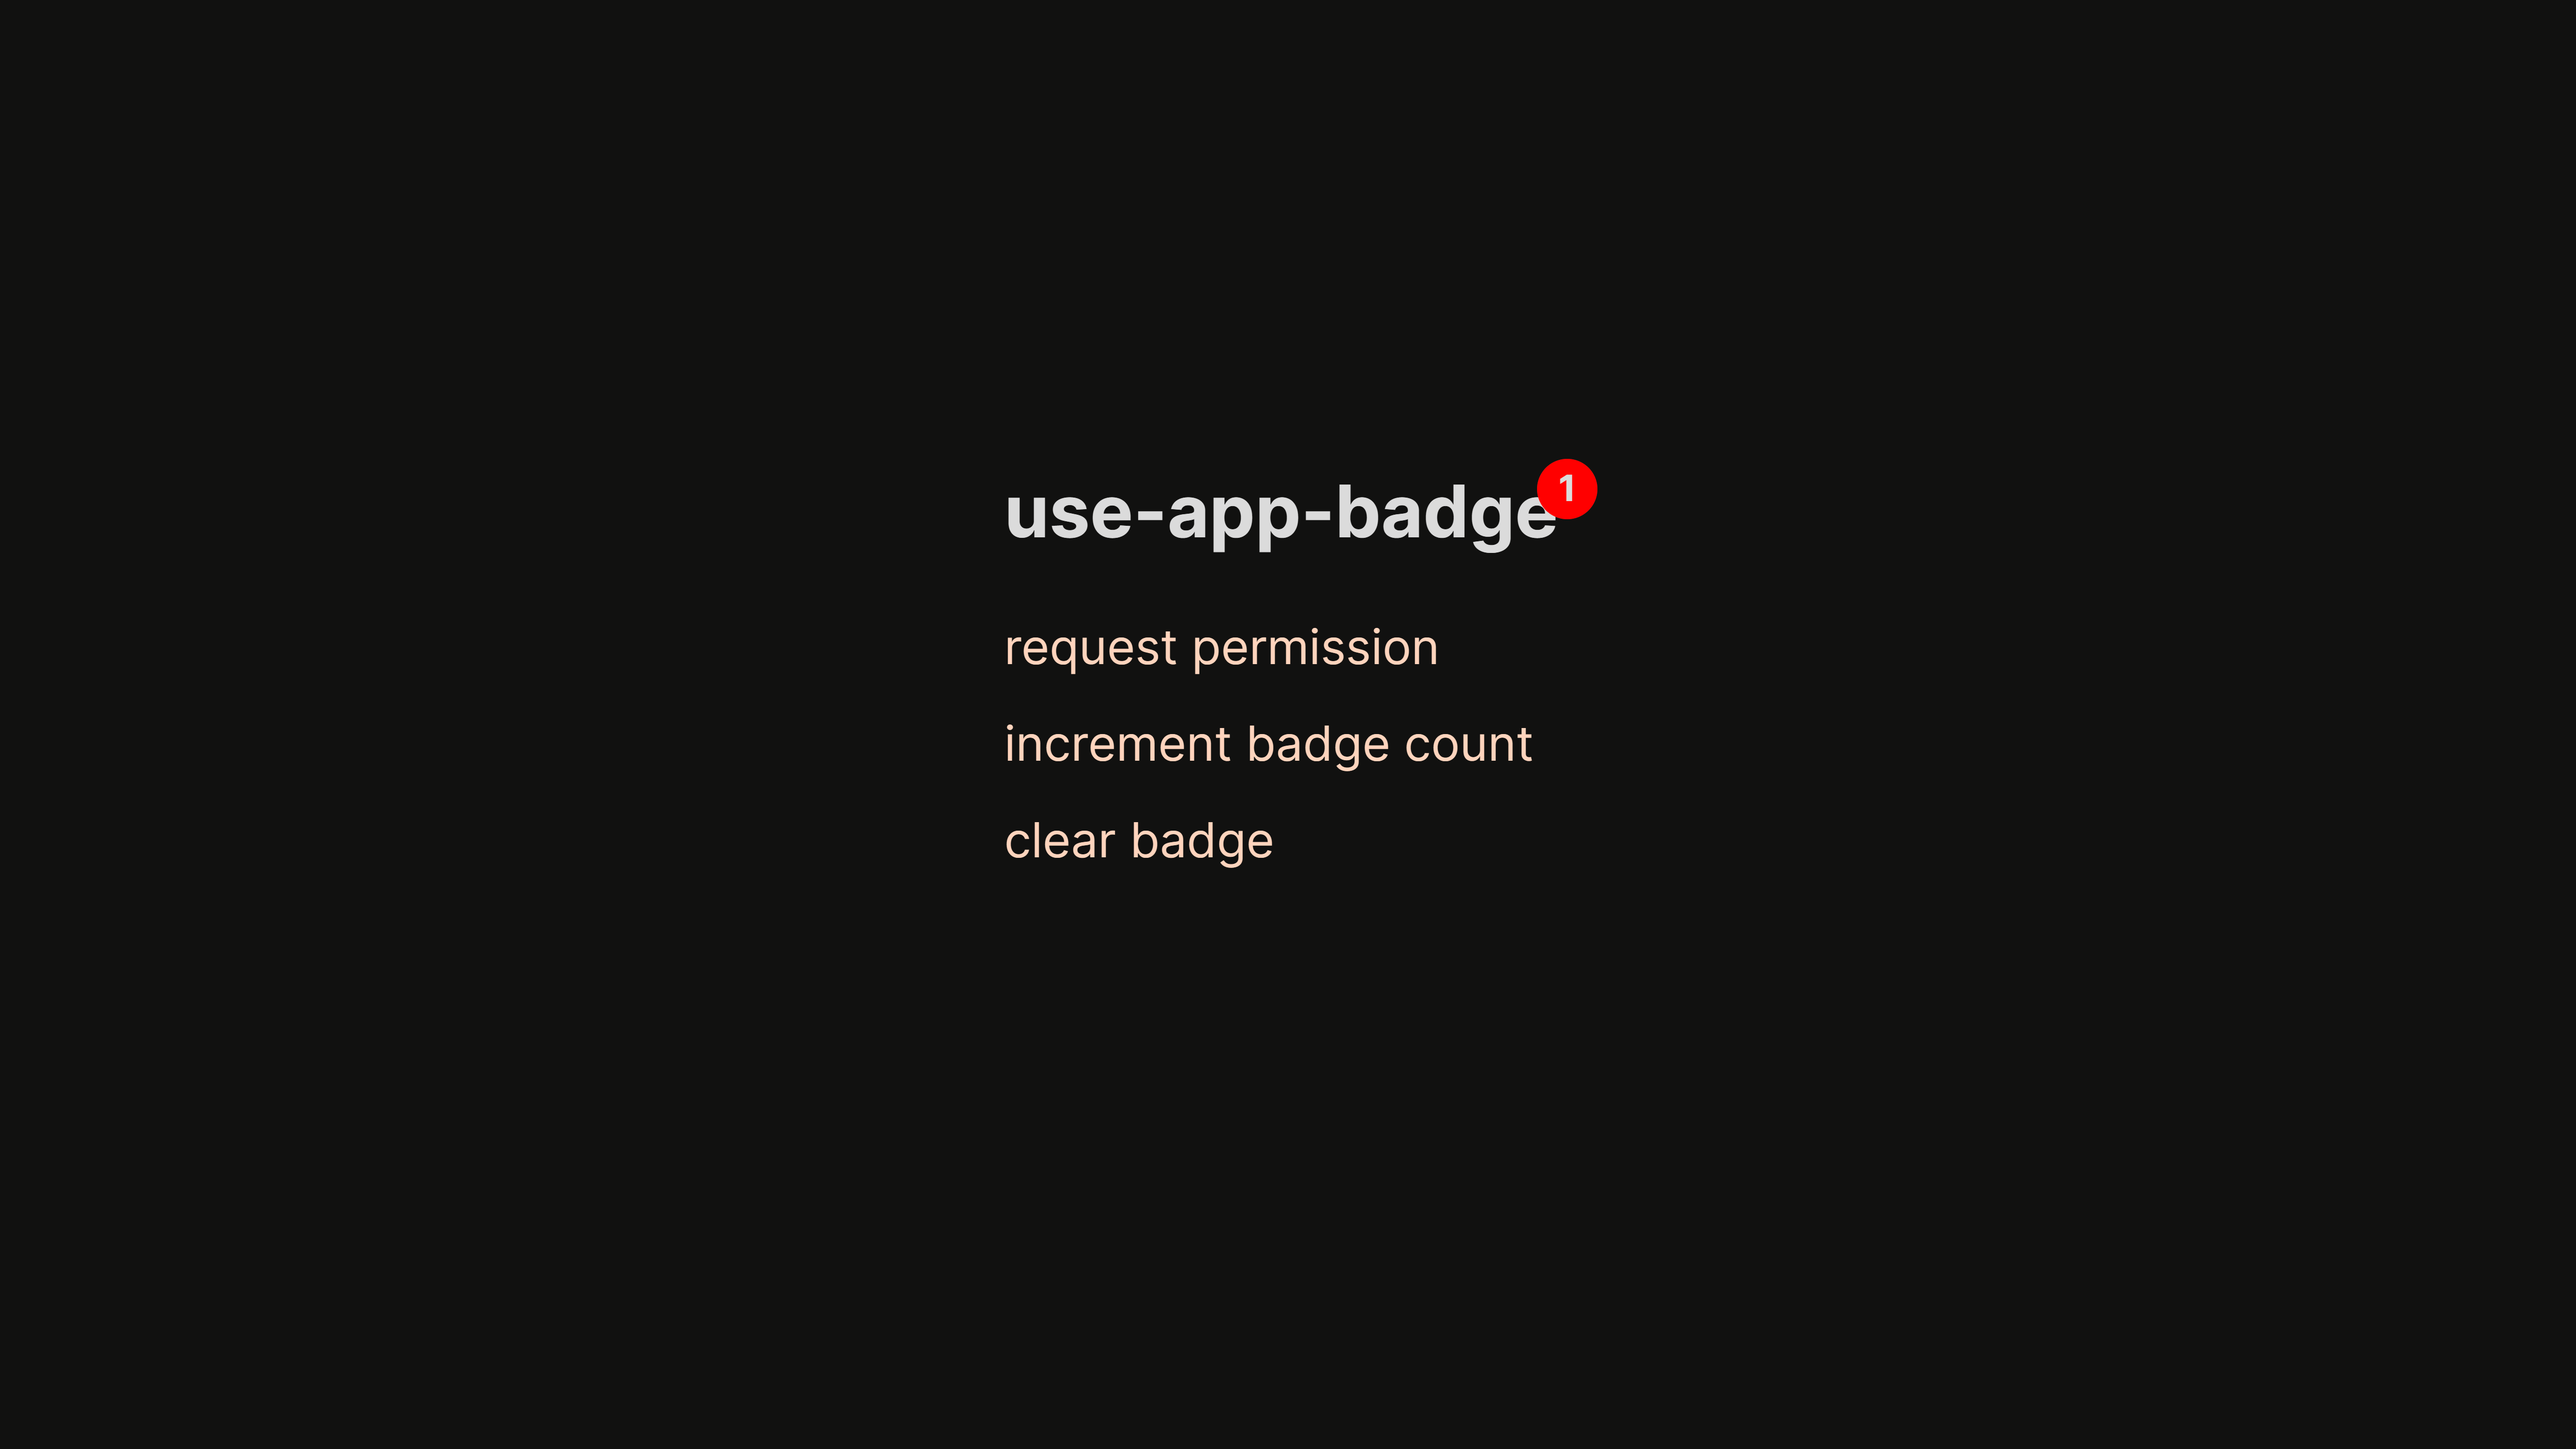
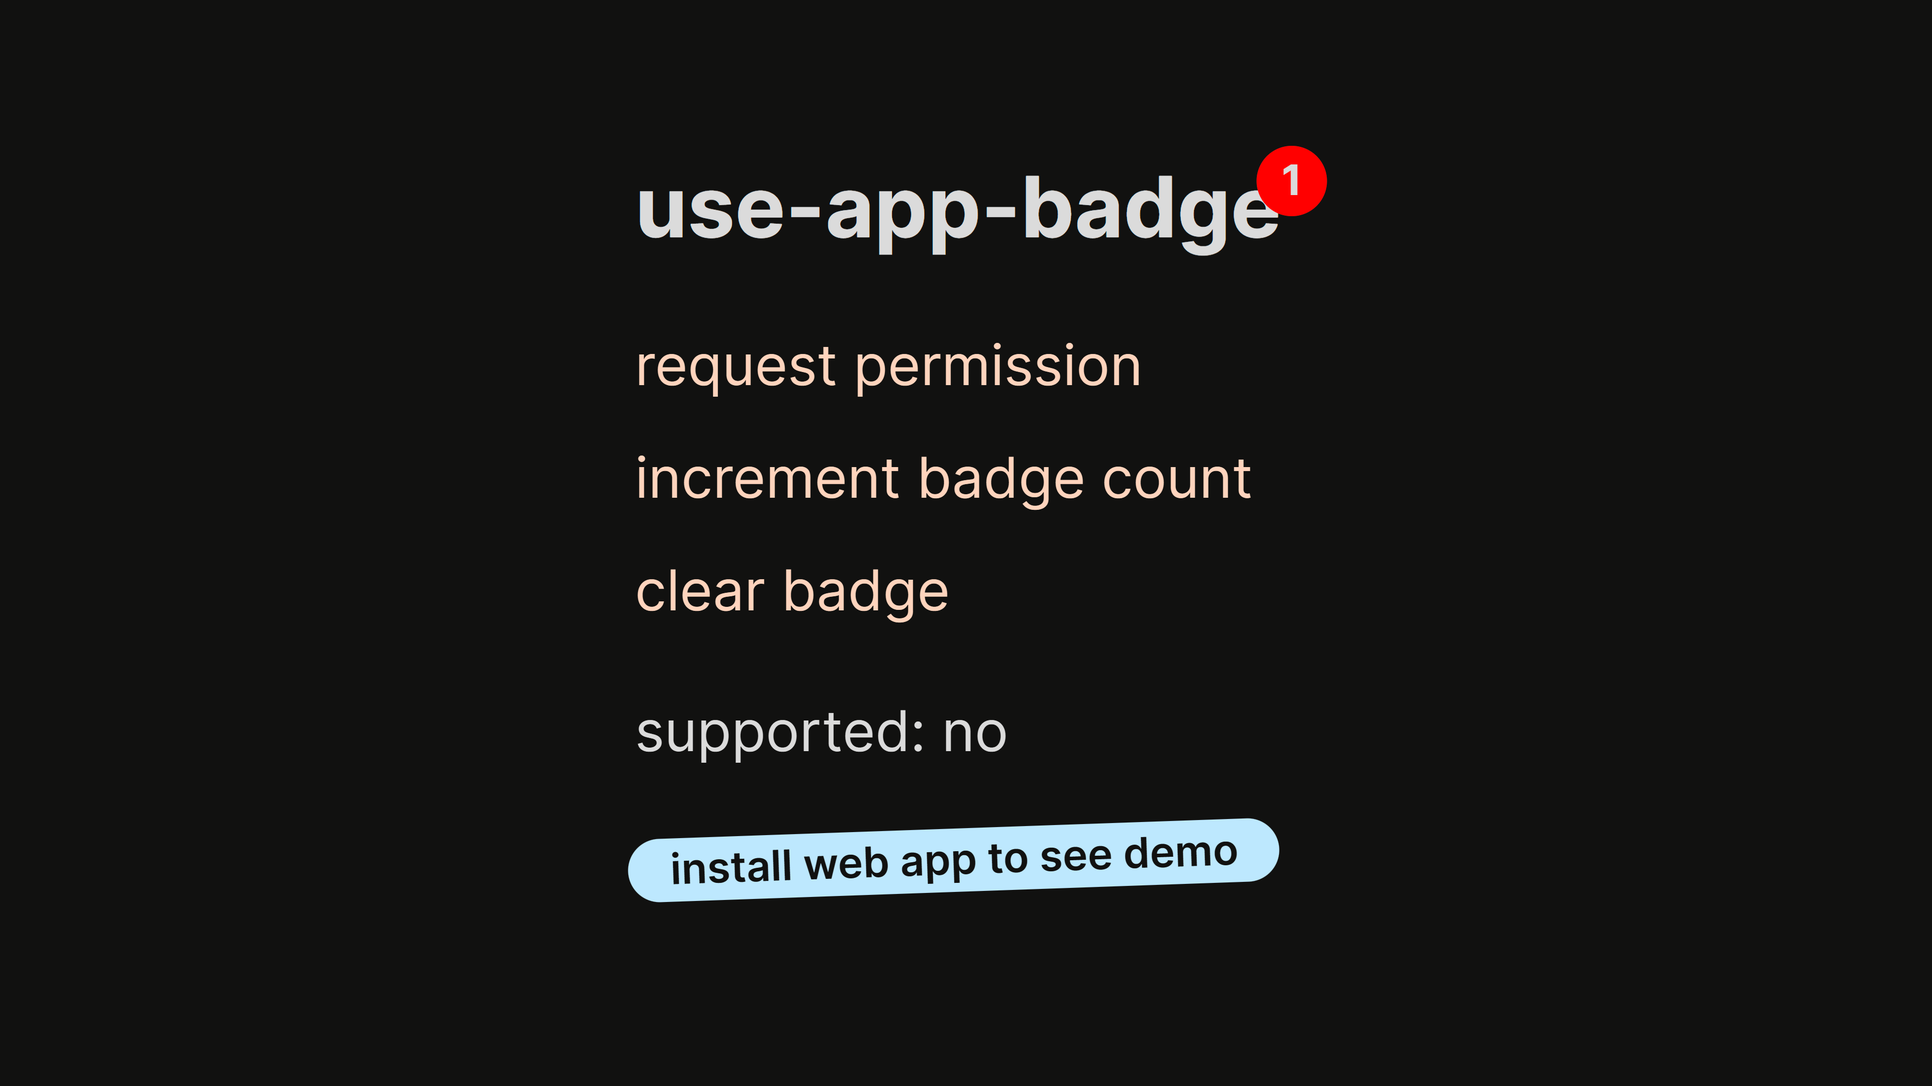
Finalize button

diff --git a/packages/use-app-badge-demo/src/hooks/use-install-prompt.ts b/packages/use-app-badge-demo/src/hooks/use-install-prompt.ts
@@ -1,6 +1,7 @@
 import { useSyncExternalStore } from 'react'
 
 const initialData = {
+  loaded: false,
   didPromptInstall: false,
   canInstall: false,
   isInstalled: false,
@@ -34,8 +35,11 @@ const setupInstallEvents = (onChange: () => void) => {
     typeof window === 'undefined' ||
     !('BeforeInstallPromptEvent' in window)
   ) {
+    data = { ...data, loaded: true }
     return noop
   }
+
+  // Could match media??
   const isInsalledAlready =
     'matchMedia' in window &&
     window.matchMedia(
@@ -43,7 +47,7 @@ const setupInstallEvents = (onChange: () => void) => {
     ).matches
 
   if (isInsalledAlready) {
-    data = { ...data, isInstalled: true }
+    data = { ...data, loaded: true, isInstalled: true }
     return noop
   }
 
@@ -52,6 +56,7 @@ const setupInstallEvents = (onChange: () => void) => {
     isInstalledTimeout = setTimeout(() => {
       data = {
         ...data,
+        loaded: true,
         isInstalled: true,
         canInstall: false,
         installedButNotOpen: true
@@ -68,11 +73,12 @@ const setupInstallEvents = (onChange: () => void) => {
     if (isBeforeInstallPromptEvent(e) && !data.canInstall) {
       data = {
         ...data,
+        loaded: true,
         isInstalled: false,
         canInstall: true,
         install: () => {
           const promptInstall = async () => {
-            data.didPromptInstall = true
+            data = { ...data, didPromptInstall: true, loaded: true }
             const { outcome } = await e.prompt()
             if (outcome === 'dismissed') data = { ...data, installDenied: true }
             onChange()
@@ -85,7 +91,7 @@ const setupInstallEvents = (onChange: () => void) => {
     e.preventDefault()
   }
   const onInstall = () => {
-    data = { ...data, isInstalled: true }
+    data = { ...data, isInstalled: true, loaded: true }
     onChange()
   }
   window.addEventListener('beforeinstallprompt', onBeforeInstall)

diff --git a/packages/use-app-badge-demo/src/app/page.tsx b/packages/use-app-badge-demo/src/app/page.tsx
@@ -1,7 +1,7 @@
 'use client'
 import { useAppBadge } from 'use-app-badge'
 import favicon from '../images/favicon.ico'
-import { useEffect } from 'react'
+import React, { useEffect } from 'react'
 import { cx } from 'class-variance-authority'
 import { useInstallPrompt } from '../hooks/use-install-prompt'
 
@@ -34,6 +34,16 @@ const Button: React.FC<
   />
 )
 
+const emptySubscribe = () => () => {}
+const ClientGate: React.FC<{ children: () => React.ReactNode }> = ({ children }) => {
+  const isServer = React.useSyncExternalStore(
+    emptySubscribe,
+    () => false,
+    () => true
+  )
+  return isServer ? null : children()
+}
+
 export default function Home() {
   const {
     set,
@@ -57,7 +67,8 @@ export default function Home() {
     canInstall,
     isInstalled,
     installDenied,
-    installedButNotOpen
+    installedButNotOpen,
+    loaded
   } = useInstallPrompt()
 
   const supported = isSupported()
@@ -73,6 +84,7 @@ export default function Home() {
     }
   })()
 
+  console.log(loaded, installStatus)
   const atMax = count > 99
   return (
     <main className="flex min-h-screen flex-col items-center">
@@ -125,7 +137,8 @@ export default function Home() {
             <div>supported: {isSupported() ? 'yes' : 'no'}</div>
           </div>
         </div>
-        <div className="w-full flex justify-start pl-[24px]">
+        {loaded && (
+          <div className="w-full flex justify-start pl-[24px]">
           {installStatus === 'initial' && (
             <Button state="initial" onClick={install}>
               install web app to see demo
@@ -151,6 +164,8 @@ export default function Home() {
             </Button>
           )}
         </div>
+        )}
+
       </div>
     </main>
   )

diff --git a/packages/use-app-badge-demo/src/app/layout.tsx b/packages/use-app-badge-demo/src/app/layout.tsx
@@ -9,12 +9,8 @@ const inter = Inter({ subsets: ['latin'] })
 export const metadata = {
   title: 'use-app-badge',
   description: '',
-  manifest: '/manifest.webmanifest',
-
-  metadataBase:
-    process.env.NODE_ENV === 'production'
-      ? new URL('https://jaxs.onl/use-app-badge')
-      : new URL('https://scaling-garbanzo-xqj5rgq545f9qw-3000.app.github.dev/'),
+  manifest: '/use-app-badge/manifest.webmanifest',
+  metadataBase: process.env.NODE_ENV === "production" ? new URL('https://jaxs.onl/use-app-badge') : new URL('http://localhost:3000/use-app-badge'),
   icons: {
     icon: [
       {
@@ -41,7 +37,10 @@ export const metadata = {
 } satisfies Metadata
 
 export const viewport = {
-  themeColor: '#151516'
+  themeColor: '#151516',
+  width: 'device-width',
+  initialScale: 1,
+  viewportFit: 'cover'
 } satisfies Viewport
 
 export default function RootLayout({
